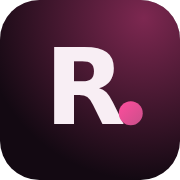
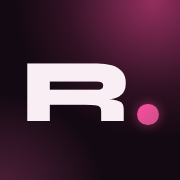
Protege dados no iPhone e refaz o ícone
- Ícone com a fonte Syne real; apple-touch-icon quadrado e opaco para a
  máscara do iOS não gerar cantos pretos.
- Cadastro aberto no momento do bloqueio é guardado criptografado e
  reaberto após desbloquear; campos são limpos ao bloquear.
- Restaurar mostra quantas senhas serão substituídas e avisa quando o
  backup é mais antigo que os dados do aparelho.
- Aviso de alterações sem backup aparece logo após a primeira alteração.
- Pede armazenamento persistente ao navegador.
- iOS: aviso quando aberto no Safari sem instalar, seletor de arquivo sem
  filtro de extensão, Compartilhar substitui Baixar, opção de arquivo
  vinculado oculta.
- Corrige menu que abria fora da tela no celular.
- Foco automático do cadastro não rouba foco já dentro do modal.
- README corrigido sobre retenção de dados no iOS.

Claude-Session: https://claude.ai/code/session_01Y6Ta6Y7aTHcBPp5V1Ejg1g

diff --git a/app.js b/app.js
@@ -31,6 +31,9 @@ function fmt(ts){ if(!ts) return null; const d=new Date(ts); return d.toLocaleDa
 function daysAgo(ts){ return ts ? (Date.now()-ts)/86400000 : Infinity; }
 const isTouch = matchMedia('(pointer:coarse)').matches;
 const isStandalone = matchMedia('(display-mode: standalone)').matches || navigator.standalone === true;
+const isIOS = /iPad|iPhone|iPod/.test(navigator.userAgent) || (navigator.platform==='MacIntel' && navigator.maxTouchPoints>1);
+const DRAFT_KEY = 'rosen.draft';
+let shareFailed = false;
 
 // ---------- pré-requisitos ----------
 function fatal(msg){ const f=$('fatal'); f.textContent=msg; f.classList.remove('hidden'); $('lockScreen').classList.add('hidden'); }
@@ -141,7 +144,7 @@ async function shareBackup(){
     await navigator.share({files:[f], title:'Backup do Rosen'});
     markBackup(); toast('Backup compartilhado');
   } catch(e){
-    if(!e || e.name!=='AbortError') toast('Não foi possível compartilhar o backup. Tente "Baixar backup".');
+    if(!e || e.name!=='AbortError'){ shareFailed=true; toast('Não foi possível compartilhar o backup. Abra o menu de novo e use "Baixar backup".', 4000); }
   } finally { resume(); }
 }
 
@@ -226,8 +229,13 @@ function scheduleClipClear(txt){
 // ---------- bloqueio ----------
 function pauseLock(){ lockPaused++; let done=false; return ()=>{ if(!done){ done=true; lockPaused=Math.max(0,lockPaused-1); if(key) bumpLock(); } }; }
 function showLock(msg){
+  if(key && kdf && vault && $('entryModal').classList.contains('on')){
+    const d = readEntryForm();
+    if(draftWorthKeeping(d)) stashDraft(key, kdf, d);
+  }
   key=null; vault=null; kdf=null; editingId=null; pendingImport=null; clearTimeout(lockTimer);
   closeMenu(); closeAllModals();
+  ['entryForm','pwForm','importForm'].forEach(f=>$(f).reset()); setEye('fPw', false); $('orgList').innerHTML='';
   $('list').innerHTML=''; $('q').value='';
   $('app').classList.remove('on'); $('lockScreen').classList.remove('hidden');
   const has = !!store.get(LS_KEY);
@@ -240,6 +248,39 @@ function showApp(){
   $('lockScreen').classList.add('hidden'); $('app').classList.add('on');
   filter='Todos';
   render(); renderStatus(); bumpLock();
+  askPersistentStorage();
+}
+// Pede ao navegador para não apagar os dados sob falta de espaço. Sem efeito visível se negado.
+function askPersistentStorage(){
+  try { if(navigator.storage && navigator.storage.persist) navigator.storage.persisted().then(p=> p || navigator.storage.persist()).catch(()=>{}); } catch(e){}
+}
+
+// ---------- rascunho do cadastro (sobrevive ao bloqueio, sempre criptografado) ----------
+function readEntryForm(){ return {id:editingId, name:$('fName').value, cat:$('fCat').value, org:$('fOrg').value, login:$('fLogin').value, pw:$('fPw').value, url:$('fUrl').value, notes:$('fNotes').value}; }
+function draftWorthKeeping(d){
+  const cur = d.id ? vault.entries.find(x=>x.id===d.id) : null;
+  if(cur) return ['name','cat','org','login','pw','url','notes'].some(k => (d[k]||'') !== (cur[k]||''));
+  return !!(d.name||d.org||d.login||d.pw||d.url||d.notes);
+}
+async function stashDraft(k, s, d){
+  try {
+    const iv = crypto.getRandomValues(new Uint8Array(12));
+    const ct = await crypto.subtle.encrypt({name:'AES-GCM', iv}, k, enc.encode(JSON.stringify(d)));
+    store.set(DRAFT_KEY, JSON.stringify({salt:s.salt, iv:b64(iv), ct:b64(new Uint8Array(ct))}));
+  } catch(e){ /* sem rascunho: o cadastro já salvo não é afetado */ }
+}
+function dropDraft(){ delete mem[DRAFT_KEY]; try { localStorage.removeItem(DRAFT_KEY); } catch(e){} }
+async function restoreDraft(){
+  const str = store.get(DRAFT_KEY); if(!str) return;
+  dropDraft();
+  try {
+    const d = JSON.parse(str);
+    if(!key || !kdf || !vault || d.salt!==kdf.salt) return;
+    const pt = await crypto.subtle.decrypt({name:'AES-GCM', iv:unb64(d.iv)}, key, unb64(d.ct));
+    const f = JSON.parse(dec.decode(pt));
+    openEntry(f.id && vault.entries.some(x=>x.id===f.id) ? f.id : null, f);
+    toast('O cadastro que estava aberto foi recuperado. Confira e toque em Salvar.', 4000);
+  } catch(e){ /* rascunho de outra senha mestre ou corrompido: descartado */ }
 }
 function bumpLock(){ clearTimeout(lockTimer); if(key) lockTimer=setTimeout(()=>{ if(lockPaused) { bumpLock(); return; } showLock('Rosen bloqueado por inatividade'); }, LOCK_MS); }
 ['click','keydown','mousemove','touchstart','scroll'].forEach(ev=>document.addEventListener(ev, ()=>{ if(key) bumpLock(); }, {passive:true}));
@@ -266,11 +307,11 @@ async function setup(){
     kdf = {salt:b64(salt), iter:ITER};
     key = await deriveKey(pw, salt, ITER);
     vault = {entries:[], updated:Date.now()};
-    meta = {}; saveMeta();
+    meta = {}; saveMeta(); dropDraft();
     await persist();
     $('setupPw').value=''; $('setupPw2').value=''; meter($('setupMeter'),'');
     showApp();
-    toast('Rosen criado. Baixe um backup assim que cadastrar as primeiras senhas.', 4000);
+    toast('Rosen criado. Faça um backup assim que cadastrar as primeiras senhas.', 4000);
   } catch(e){ key=null; vault=null; err.textContent='Não foi possível criar o cofre: o navegador recusou a operação de criptografia. Recarregue a página e tente de novo.'; }
   btn.disabled=false; btn.textContent='Criar Rosen';
 }
@@ -289,6 +330,7 @@ async function unlock(){
     key=k; kdf=blob.kdf; vault=data;
     $('unlockPw').value='';
     showApp();
+    await restoreDraft();
     reconnectFile();
   } catch(e){ err.textContent='Senha mestre incorreta. Verifique maiúsculas e o teclado e tente de novo.'; }
   btn.disabled=false; btn.textContent='Abrir Rosen';
@@ -304,6 +346,14 @@ $('fileInput').addEventListener('change', async ()=>{
   try { blob = JSON.parse(await f.text()); } catch(e){ blob=null; }
   if(!validBlob(blob)){ toast('Este arquivo não é um backup do Rosen (esperado um .rosen gerado pelo próprio app). Escolha outro arquivo.', 5000); return; }
   pendingImport = blob;
+  let local=null; try { local=JSON.parse(store.get(LS_KEY)||'null'); } catch(e){ local=null; }
+  let warn='Isso substitui o que está salvo neste aparelho pelo conteúdo do backup.';
+  if(validBlob(local)){
+    const n = vault ? vault.entries.length : null;
+    warn = 'Isso substitui ' + (n!==null ? `as ${n} senha(s) salvas neste aparelho` : 'o cofre salvo neste aparelho') + ' pelo conteúdo do backup.';
+    if(blob.updated && local.updated && blob.updated < local.updated) warn += ` Atenção: este backup (${fmt(blob.updated)}) é mais antigo que os dados daqui (${fmt(local.updated)}). O que foi cadastrado ou alterado depois dele será perdido. Se não tiver certeza, cancele e faça antes um backup dos dados atuais.`;
+  }
+  $('importWarn').textContent = warn;
   $('importInfo').textContent = `Arquivo: ${f.name}${blob.updated?' (salvo em '+fmt(blob.updated)+')':''}`;
   $('impPw').value=''; $('impErr').textContent='';
   openModal('importModal', 'impPw');
@@ -318,7 +368,7 @@ $('importForm').addEventListener('submit', async ev=>{
     const {k, data} = await decryptBlob(pendingImport, pw);
     key=k; kdf=pendingImport.kdf; vault=data;
     const saved = store.set(LS_KEY, JSON.stringify(pendingImport));
-    meta.lastBackup = pendingImport.updated || Date.now(); meta.dirtySince=null; saveMeta();
+    meta.lastBackup = pendingImport.updated || Date.now(); meta.dirtySince=null; saveMeta(); dropDraft();
     closeModal('importModal'); pendingImport=null;
     showApp(); toast(saved ? `Restaurado: ${vault.entries.length} senha(s)` : `Aberto com ${vault.entries.length} senha(s), mas não foi possível gravar neste navegador.`, 4000);
     reconnectFile();
@@ -350,18 +400,19 @@ $('pwForm').addEventListener('submit', async ev=>{
 });
 
 // ---------- modais ----------
-function openModal(id, focusId){ $(id).classList.add('on'); document.body.style.overflow='hidden'; if(focusId) setTimeout(()=>$(focusId).focus(),60); }
+function openModal(id, focusId){ $(id).classList.add('on'); document.body.style.overflow='hidden'; if(focusId) setTimeout(()=>{ if(!$(id).contains(document.activeElement)) $(focusId).focus(); },60); }
 function closeModal(id){ $(id).classList.remove('on'); if(!document.querySelector('.modal.on')) document.body.style.overflow=''; }
 function closeAllModals(){ document.querySelectorAll('.modal.on').forEach(m=>m.classList.remove('on')); document.body.style.overflow=''; }
 
 // ---------- registros ----------
-function openEntry(id){
+function openEntry(id, draft){
   editingId=id||null;
-  const e = id ? vault.entries.find(x=>x.id===id) : null;
-  $('entryTitle').textContent = e ? 'Editar senha' : 'Nova senha';
+  const cur = id ? vault.entries.find(x=>x.id===id) : null;
+  const e = draft || cur;
+  $('entryTitle').textContent = cur ? 'Editar senha' : 'Nova senha';
   $('fName').value=e?.name||''; $('fCat').value=CATS.includes(e?.cat)?e.cat:'Hospital'; $('fOrg').value=e?.org||'';
   $('fLogin').value=e?.login||''; $('fPw').value=e?.pw||''; setEye('fPw', false); $('fUrl').value=e?.url||''; $('fNotes').value=e?.notes||'';
-  $('deleteBtn').classList.toggle('hidden', !e); $('entryErr').textContent='';
+  $('deleteBtn').classList.toggle('hidden', !cur); $('entryErr').textContent='';
   $('orgList').innerHTML = [...new Set(vault.entries.map(x=>x.org).filter(Boolean))].map(o=>`<option value="${esc(o)}">`).join('');
   openModal('entryModal', 'fName');
   $('entryForm').querySelector('.dialog-body').scrollTop=0;
@@ -408,7 +459,7 @@ function renderStatus(){
   const b=$('banner'); b.className='banner hidden'; b.innerHTML='';
   if(!fileHandle){
     if(n>0 && !meta.lastBackup){ b.className='banner'; b.innerHTML='<span class="grow">Suas senhas estão salvas só neste navegador. Se o histórico for limpo ou o aparelho trocar, elas somem. Faça um backup agora.</span><button class="btn sm primary" id="bannerExport" type="button">Fazer backup</button>'; }
-    else if(meta.dirtySince && daysAgo(meta.dirtySince)>3){ b.className='banner warn'; b.innerHTML='<span class="grow">Há alterações não incluídas no último backup.</span><button class="btn sm" id="bannerExport" type="button">Fazer backup</button>'; }
+    else if(n>0 && meta.dirtySince){ b.className='banner warn'; b.innerHTML='<span class="grow">Há senhas cadastradas ou alteradas que ainda não estão em nenhum backup.</span><button class="btn sm" id="bannerExport" type="button">Fazer backup</button>'; }
     const be=$('bannerExport'); if(be) be.onclick=()=> canShare() && isTouch ? shareBackup() : exportBackup();
   }
 }
@@ -470,7 +521,7 @@ $('shareBtn').onclick=()=>{ closeMenu(); shareBackup(); };
 $('linkFileBtn').onclick=()=>{ closeMenu(); linkFile(); };
 $('lockBtn').onclick=()=>{ closeMenu(); showLock(); };
 $('q').addEventListener('input', render);
-$('menuBtn').onclick=e=>{ e.stopPropagation(); const open=$('menu').classList.toggle('open'); $('menuBtn').setAttribute('aria-expanded', String(open)); if(open){ $('shareBtn').classList.toggle('hidden', !canShare()); } };
+$('menuBtn').onclick=e=>{ e.stopPropagation(); const open=$('menu').classList.toggle('open'); $('menuBtn').setAttribute('aria-expanded', String(open)); if(open){ const sh=canShare(); $('shareBtn').classList.toggle('hidden', !sh); $('exportBtn').classList.toggle('hidden', isIOS && sh && !shareFailed); } };
 function closeMenu(){ $('menu').classList.remove('open'); $('menuBtn').setAttribute('aria-expanded','false'); }
 document.addEventListener('click', e=>{ if(!$('menu').contains(e.target)) closeMenu(); });
 $('statusSum').onclick=()=>{ const open=$('status').classList.toggle('open'); $('statusSum').setAttribute('aria-expanded', String(open)); };
@@ -481,6 +532,8 @@ document.addEventListener('keydown', e=>{
   if($('pwModal').classList.contains('on')) closeModal('pwModal');
   if($('importModal').classList.contains('on')){ closeModal('importModal'); pendingImport=null; }
 });
+if(isIOS){ $('fileInput').removeAttribute('accept'); $('linkFileBtn').classList.add('hidden'); $('linkFileDesc').classList.add('hidden'); }
+if(isIOS && !isStandalone) $('installNotice').classList.remove('hidden');
 if(!hasFSA){ $('linkFileDesc').textContent='Disponível apenas no Chrome ou Edge de computador. Aqui, use o backup manual.'; }
 if(isTouch){ $('exportDesc').textContent='Arquivo .rosen. Só abre com a senha mestre. No iPhone, prefira "Compartilhar backup" e salve em Arquivos (iCloud Drive).'; }
 window.addEventListener('beforeunload', e=>{ if(key && vault && vault.entries.length && !fileHandle && !meta.lastBackup){ e.preventDefault(); e.returnValue=''; } });

diff --git a/styles.css b/styles.css
@@ -161,7 +161,7 @@ input[type=search]::-webkit-search-decoration{-webkit-appearance:none}
   .search{max-width:none}
   .menu-label{display:none}
   .menu-btn{width:var(--tap);height:var(--tap);padding:0;min-height:var(--tap)}
-  .menu .pop{position:fixed;left:12px;right:12px;top:auto;bottom:calc(12px + var(--sab));min-width:0}
+  .menu .pop{position:absolute;right:0;top:calc(100% + 8px);width:calc(100vw - 28px - var(--sal) - var(--sar));max-width:360px;min-width:0;max-height:calc(100dvh - 80px - var(--sat));overflow:auto}
   .wrap{padding:14px calc(14px + var(--sar)) calc(var(--fab-h) + 44px + var(--sab)) calc(14px + var(--sal))}
   .status-sum{display:flex}
   .status-list{display:none;flex-direction:column;align-items:flex-start;gap:6px;padding:10px 12px 4px}

diff --git a/index.html b/index.html
@@ -31,6 +31,7 @@
     <div class="lock-inner">
       <div class="brand">Rosen<span>.</span></div>
       <div class="notice hidden" id="storageNotice"></div>
+      <div class="notice hidden" id="installNotice">Você está no Safari. Para usar como app: toque em Compartilhar, depois em "Adicionar à Tela de Início", e abra sempre pelo ícone. O que for criado aqui no Safari não aparece no app instalado.</div>
 
       <form id="setupView" novalidate>
         <p class="lead">Primeiro acesso. Crie a senha mestre que protegerá todas as outras.</p>

diff --git a/sw.js b/sw.js
@@ -1,6 +1,6 @@
 /* Rosen service worker: cache-first apenas para os arquivos do próprio app.
    Nunca toca em dados: o cofre vive só em localStorage/IndexedDB e nunca passa pela rede. */
-const VERSION = 'rosen-v1.0.0';
+const VERSION = 'rosen-v1.1.0';
 const ASSETS = ['./', 'index.html', 'styles.css', 'app.js', 'manifest.webmanifest',
   'icons/icon-192.png', 'icons/icon-512.png', 'icons/icon-512-maskable.png', 'icons/apple-touch-icon.png'];
 const SCOPE = new URL('./', self.location).href;

diff --git a/README.md b/README.md
@@ -14,9 +14,9 @@ GitHub Pages também funciona: publique a raiz do repositório e use o endereço
 ## Instalar no iPhone
 
 1. Abra o endereço no Safari (precisa ser o Safari; no Chrome do iOS a instalação não fica igual).
-2. Toque em Compartilhar (o quadrado com a seta para cima).
-3. Toque em "Adicionar à Tela de Início" e confirme.
-4. Abra o Rosen pelo ícone da tela inicial. Ele funciona sem internet.
+2. Toque em Compartilhar (o quadrado com a seta para cima). Em versões recentes do iOS ele fica dentro do botão de três pontos.
+3. Toque em "Adicionar à Tela de Início" (pode estar em "Ver mais"). Se aparecer "Abrir como App da Web", deixe ligado. Confirme em "Adicionar".
+4. Abra o Rosen pelo ícone da tela inicial. Ele funciona sem internet. O Safari e o app instalado guardam dados separados: crie o cofre já pelo ícone.
 
 ## Backup
 
@@ -28,8 +28,11 @@ GitHub Pages também funciona: publique a raiz do repositório e use o endereço
 
 - Não há sincronização. Cada navegador e cada aparelho tem seu próprio cofre; a única forma de levar dados de um para outro é o arquivo `.rosen`.
 - No iOS o backup é manual: não há gravação automática em arquivo, e um arquivo compartilhado precisa ser salvo em Arquivos e depois restaurado pelo seletor. O iOS não permite "compartilhar para dentro" de um app web instalado.
-- Se o Safari ficar semanas sem abrir o app, o iOS pode apagar os dados do site. Mantenha um backup recente.
+- Apagar o ícone da tela inicial apaga as senhas junto. O mesmo vale para "Limpar histórico e dados" do Safari se o app não estiver instalado.
+- O app instalado na tela inicial não sofre a limpeza automática de 7 dias do Safari, mas o iOS ainda pode remover dados se o aparelho ficar sem espaço. O app pede armazenamento persistente para reduzir esse risco, sem garantia.
+- Os dados ficam presos ao endereço do site. Não renomeie o site no Netlify nem troque o domínio: quem já usa o app perderia o acesso ao cofre salvo no aparelho, e teria de restaurar pelo backup.
+- "Último backup" registra que o arquivo foi baixado ou que a folha de compartilhar foi concluída. O app não consegue confirmar que o arquivo foi de fato salvo no iCloud Drive.
 - A senha mestre é irrecuperável. Sem ela, nem o backup nem o cofre abrem. Não existe "esqueci a senha".
-- O bloqueio automático ocorre após 5 minutos sem uso e, no celular ou no app instalado, ao sair para o segundo plano.
+- O bloqueio automático ocorre após 5 minutos sem uso e, no celular ou no app instalado, ao sair para o segundo plano. Um cadastro que estava aberto é guardado criptografado e reaberto depois de digitar a senha mestre.
 - A limpeza da área de transferência após 60 segundos só ocorre quando o navegador já concedeu permissão de leitura da área de transferência. Nenhum pedido de permissão é feito; no iOS, na prática, não ocorre.
 - Precisa de um navegador com WebCrypto (Chrome, Edge, Firefox ou Safari atualizados) e de https ou localhost.
